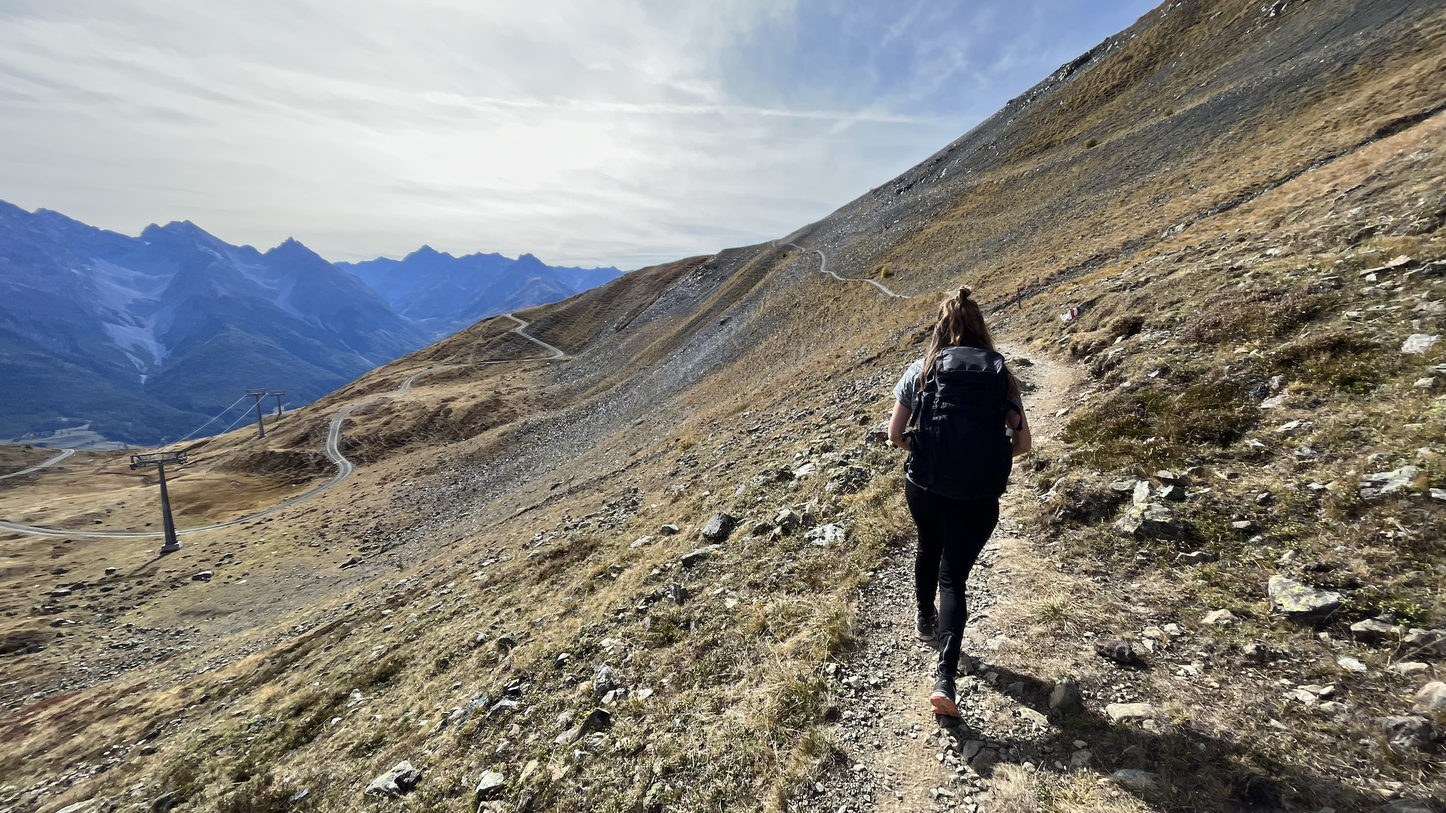
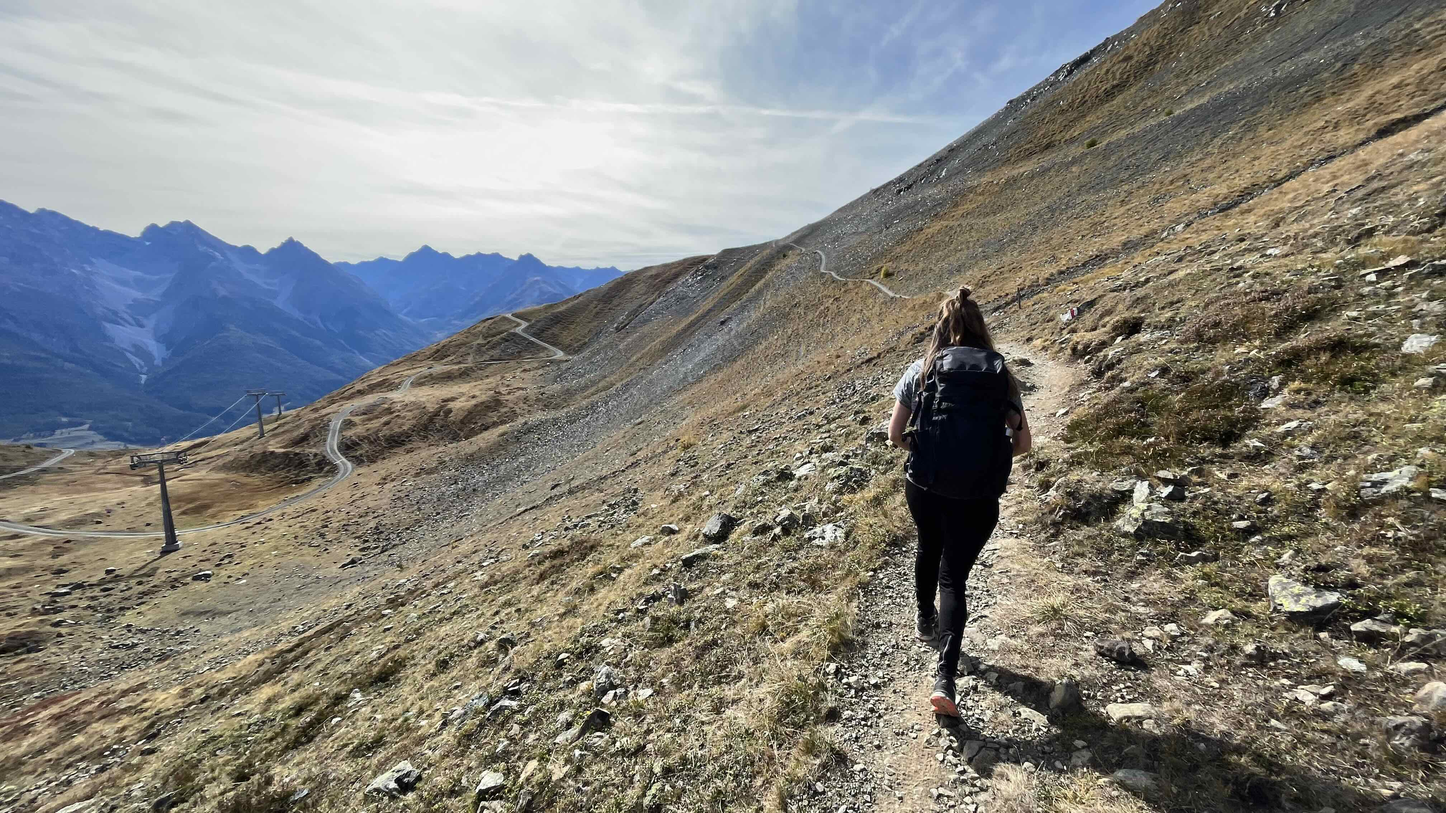
overall - clean and reduce size of imgs

diff --git a/index.html b/index.html
@@ -119,7 +119,7 @@
           </div>
 
           <div class="col-lg-4">
-            <img src="assets/img/tamara_waeber_about.jpg" class="img-fluid" alt="" style="border-radius: 50%; width: 400px; height: 400px; object-fit: cover;">
+            <img src="assets/img/about/tamara.jpg" class="img-fluid" alt="" style="border-radius: 50%; width: 400px; height: 400px; object-fit: cover;">
 
           </div>
         </div>
@@ -273,17 +273,17 @@
             </div><!-- End Portfolio Vigier -->
 
             <div class="col-lg-4 col-md-6 portfolio-item isotope-item filter-app">
-              <img src="assets/img/portfolio/hochzeit.jpg" class="img-fluid" alt="">
+              <img src="assets/img/portfolio/hochzeit_1.jpg" class="img-fluid" alt="">
               <div class="portfolio-info">
                 <h4>Hochzeit Corinna & George</h4>
                 <p>Lorem ipsum, dolor sit</p>
-                <a href="assets/img/portfolio/hochzeit.jpg" title="Hochzeit Corinna & George" data-gallery="portfolio-gallery-product" class="glightbox preview-link"><i class="bi bi-zoom-in"></i></a>
+                <a href="assets/img/portfolio/hochzeit_1.jpg" title="Hochzeit Corinna & George" data-gallery="portfolio-gallery-product" class="glightbox preview-link"><i class="bi bi-zoom-in"></i></a>
                 <a href="hochzeit.html" title="More Details" class="details-link" target="_blank"><i class="bi bi-link-45deg"></i></a>
               </div>
             </div><!-- End Portfolio Hochzeit -->
 
             <div class="col-lg-4 col-md-6 portfolio-item isotope-item filter-product">
-              <img src="assets/img/portfolio/hochzeit.jpg" class="img-fluid" alt="">
+              <img src="assets/img/portfolio/hochzeit_1.jpg" class="img-fluid" alt="">
               <div class="portfolio-info">
                 <h4>Schweizerischen Heimatschutz</h4>
                 <p>Übersetzungen</p>
@@ -399,7 +399,7 @@
                     </div>
                   </div>
                   <div class="col-lg-2 text-center">
-                    <img src="assets/img/testimonials/testimonials-3.jpg" class="img-fluid testimonial-img" alt="">
+                    <img src="assets/img/testimonials/corinna_george.jpeg" class="img-fluid testimonial-img" alt="">
                   </div>
                 </div>
               </div>

diff --git a/hochzeit.html b/hochzeit.html
@@ -97,7 +97,7 @@
           <div class="swiper-wrapper align-items-center">
 
             <div class="swiper-slide">
-              <img src="assets/img/portfolio/hochzeit.jpg" alt="">
+              <img src="assets/img/portfolio/hochzeit_1.jpg" alt="">
             </div>
 
           </div>
